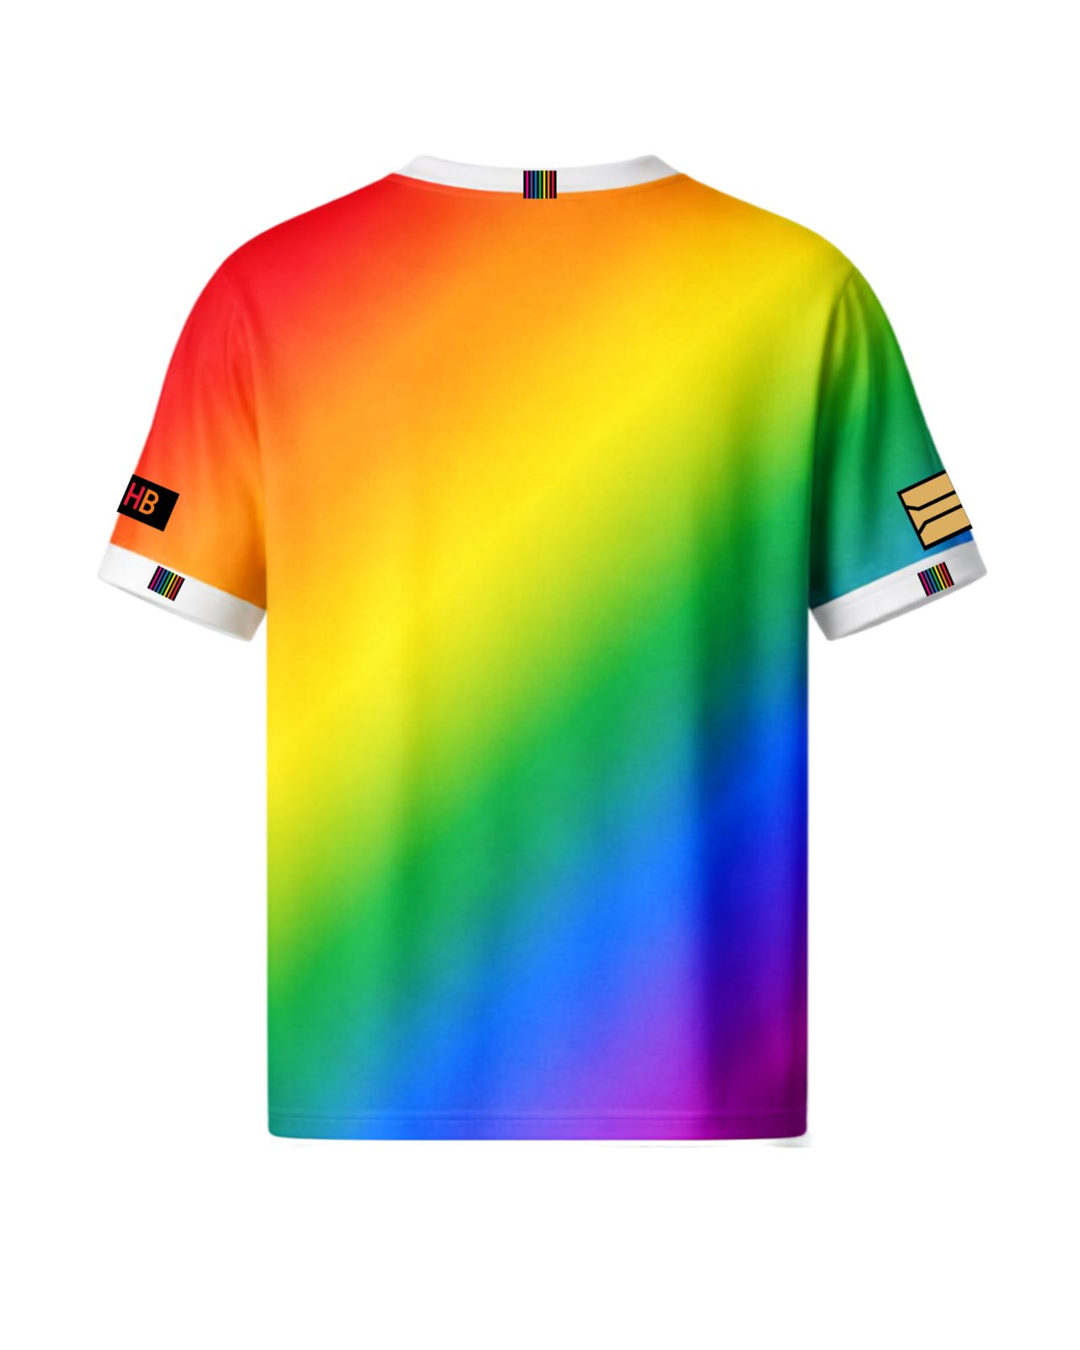
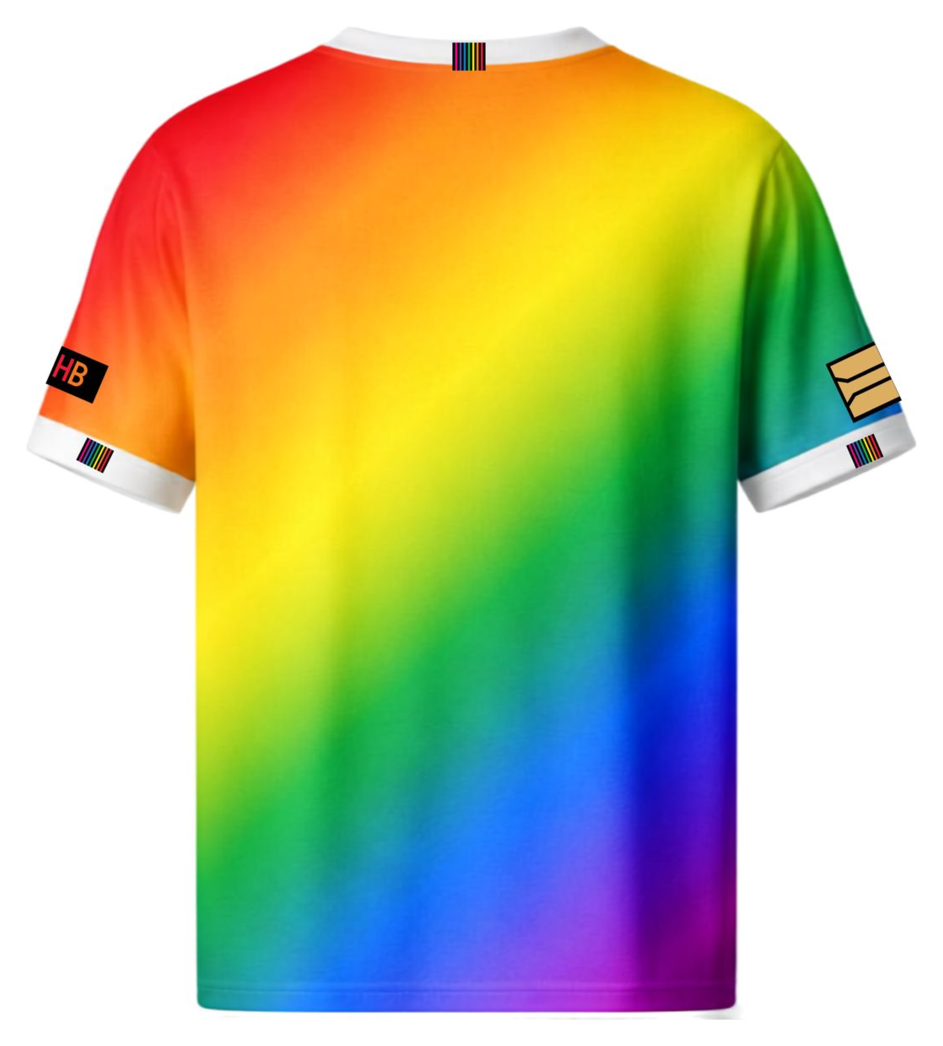
Carve the claimable area out of the shirt instead of stamping a rectangle on it
The grid was a rectangle of straight columns with the corners argued about
afterwards, which is what made it look like a first attempt. It now follows the
garment.

One rule does all of it: a cell is claimable only if every pixel within 9px of it
is clear fabric. That gives the organic boundary, the clearance from the seams and
the hem, and the same clearance from the heart, the crest and the wordmark, from a
single measurement rather than four sets of hand-drawn rectangles. Symmetry is then
enforced by mirroring, so a cell survives only if its mirror does. Without that,
small differences in the render's shading produce a shape a column wider on one
side, which was the old lopsidedness.

The shape is stored as a bitmap, one string per row, "0" claimable. You can read
it in the source: the back widens through the chest and tapers at both ends, the
front flows around the artwork. That replaces the excludeCells set added earlier,
which nothing else used.

Both kit renders were re-canvassed from 1080x1350 to 943x1046, so the garment
fills 94% of the width instead of 82%. At the same panel width the shirt renders
about 15% larger and the panel is a fifth shorter, which is less to scroll past on
a phone. Every box in zones.js is a percentage of the image, so all five bonus
zones had to be transformed: the garment pixels are unchanged, their offset in the
canvas is not. Checked afterwards that every sleeve and crest cell still lands on
[…]

diff --git a/lib/zones.js b/lib/zones.js
@@ -13,6 +13,11 @@
 // kit-customise.png / kit-back.png artwork (see the "arms" fix), not
 // guessed, so squares never render over the crest, wordmark, or the sleeve
 // tag logos, and never spill outside the printed fabric.
+// The kit renders were re-canvassed from 1080x1350 to 943x1046 so the shirt
+// fills the frame instead of floating in white, which makes it render about 15%
+// larger at the same panel width. Every box in this file is a percentage of the
+// image, so all of them had to be transformed: the garment pixels are unchanged,
+// their offset inside the canvas is not.
 export const ZONES = [
   // SQUARE "1:2", "9:2", "10:2", "11:2", "1:3", "2:3", "9:3", "10:3", "11:3", "1:4", "9:4", "10:4", "8:5", "9:5", "2:6", "3:6", "4:6", "5:6", "6:6", "7:6", "8:6", "9:6", "10:6", "1:7", "2:7", "3:7", "4:7", "5:7", "6:7", "7:7", "8:7", "9:7", "10:7", "2:8", "3:8", "4:8", "5:8", "6:8", "7:8", "8:8", "9:8", "10:8", "4:9", "5:9", "6:9", "7:9", "8:9", "9:9", "4:10", "5:10". Every "square" used to be a 51.8 x 29.7px rectangle, a 1.75:1
   // ratio, roughly 3.0 x 2.2cm on a medium shirt. A campaign called "500
@@ -39,20 +44,38 @@ export const ZONES = [
     // for them, so the board a visitor sees always contains 500 boxes and never
     // the bonus sleeve stock.
     counted: true,
-    cols: 12,
-    rows: 22,
-    box: { x: 29.8, y: 24, w: 40, h: 58.667 },
+    cols: 21,
+    rows: 23,
+    // The box is deliberately generous: it covers almost the whole render and the
+    // mask below carves the real shape out of it, rather than a rectangle being
+    // stamped on the shirt and the corners argued about afterwards.
+    box: { x: 6, y: 6, w: 88, h: 86.89 },
     exclude: [],
-    // Measured off the artwork rather than drawn by hand: a cell is out when
-    // more than 7% of its pixels are desaturated, which is what the collar, the
-    // white fill of the heart and the wordmark, and the near-black crest all
-    // are, while the fabric is a fully saturated rainbow everywhere. Luminance
-    // cannot be used for this: dark magenta at the bottom of the gradient is
-    // darker than the navy wordmark outline.
-    //
-    // The 50 cells below are the heart (rows 2-4), the crest (rows 2-5) and the
-    // wordmark (rows 6-10).
-    excludeCells: new Set(["1:2", "9:2", "10:2", "11:2", "1:3", "2:3", "9:3", "10:3", "11:3", "1:4", "9:4", "10:4", "8:5", "9:5", "2:6", "3:6", "4:6", "5:6", "6:6", "7:6", "8:6", "9:6", "10:6", "1:7", "2:7", "3:7", "4:7", "5:7", "6:7", "7:7", "8:7", "9:7", "10:7", "2:8", "3:8", "4:8", "5:8", "6:8", "7:8", "8:8", "9:8", "10:8", "4:9", "5:9", "6:9", "7:9", "8:9", "9:9", "4:10", "5:10"]),
+    mask: [
+      "111111111111111111111",
+      "111110111111111011111",
+      "111100000000000001111",
+      "111001110000011100111",
+      "110001111000111100011",
+      "110001111000111100011",
+      "111001111101111100111",
+      "111100111111111001111",
+      "111101111111111101111",
+      "111101111111111101111",
+      "111110111111111011111",
+      "111110011111110011111",
+      "111110000000000011111",
+      "111110000000000011111",
+      "111110000000000011111",
+      "111110000000000011111",
+      "111110000000000011111",
+      "111110000000000011111",
+      "111110000000000011111",
+      "111110000000000011111",
+      "111110000000000011111",
+      "111110000000000011111",
+      "111110000000000011111",
+    ],
   },
 {
     id: "front-sleeveL",
@@ -66,7 +89,7 @@ export const ZONES = [
     counted: true,
     cols: 1,
     rows: 2,
-    box: { x: 18.1, y: 32.7, w: 4.8, h: 4.4 },
+    box: { x: 12.14, y: 25.09, w: 5.5, h: 5.68 },
     exclude: [],
   },
   {
@@ -76,7 +99,7 @@ export const ZONES = [
     counted: true,
     cols: 1,
     rows: 2,
-    box: { x: 77.1, y: 32.2, w: 4.8, h: 4.4 },
+    box: { x: 79.71, y: 24.45, w: 5.5, h: 5.68 },
     exclude: [],
   },
   // Small bonus strip of plain fabric between the HBUFC crest and the
@@ -87,7 +110,7 @@ export const ZONES = [
     panel: "front",
     cols: 1,
     rows: 3,
-    box: { x: 71.76, y: 25.93, w: 3.94, h: 11.85 },
+    box: { x: 73.6, y: 16.35, w: 4.51, h: 15.29 },
     exclude: [],
   },
   // No exclusions on the back torso (blank artwork). Box extended the same
@@ -98,17 +121,37 @@ export const ZONES = [
     id: "back-body",
     panel: "back",
     counted: true,
-    cols: 12,
+    cols: 21,
     rows: 23,
-    // Same 36.00px cell as the front, so a square is identical on both panels.
-    // 23 rows at that cell size is what 61.333% of the artwork height comes to.
-    box: { x: 29.8, y: 20, w: 40, h: 61.333 },
-    // Nothing to exclude. The back is plain fabric, and the narrower box now
-    // clears the shoulder slope that the old corner cutouts existed to avoid,
-    // so the measurement finds no artwork at all here. Checked, not assumed:
-    // the same detection that traced the heart, crest and wordmark on the front
-    // returns zero blocked cells on this panel.
+    // Identical grid to the front, so a square is the same size on both panels
+    // and the two shapes are cut by the same rule.
+    box: { x: 6, y: 6, w: 88, h: 86.89 },
     exclude: [],
+    mask: [
+      "111111111111111111111",
+      "111110000000000011111",
+      "111000000000000000111",
+      "111000000000000000111",
+      "110000000000000000011",
+      "110000000000000000011",
+      "100000000000000000001",
+      "110000000000000000011",
+      "110000000000000000011",
+      "111000000000000000111",
+      "111100000000000001111",
+      "111100000000000001111",
+      "111100000000000001111",
+      "111100000000000001111",
+      "111100000000000001111",
+      "111100000000000001111",
+      "111100000000000001111",
+      "111100000000000001111",
+      "111100000000000001111",
+      "111100000000000001111",
+      "111100000000000001111",
+      "111110000000000011111",
+      "111110000000000011111",
+    ],
   },
   // The real back artwork (unlike the earlier placeholder) has a cuff tag on
   // each sleeve (an "HB" tag + a striped ribbon on the left, a tan tag +
@@ -123,7 +166,7 @@ export const ZONES = [
     counted: true,
     cols: 3,
     rows: 1,
-    box: { x: 15, y: 30, w: 9, h: 3 },
+    box: { x: 9.65, y: 26.48, w: 10.31, h: 3.87 },
     exclude: [],
   },
   {
@@ -132,7 +175,7 @@ export const ZONES = [
     counted: true,
     cols: 3,
     rows: 1,
-    box: { x: 76, y: 30, w: 9, h: 3 },
+    box: { x: 79.51, y: 26.48, w: 10.31, h: 3.87 },
     exclude: [],
   },
 ];
@@ -174,15 +217,21 @@ export function inExclude(zone, col, row, span) {
   ) {
     return true;
   }
-  // `excludeCells` is a measured set rather than hand-drawn rectangles. The
-  // torso artwork is not rectangular, and forcing it into rectangles is what
-  // previously cost squares to rounding, so the measurement is stored as it was
-  // taken. A block of four is out if any cell it covers is out.
-  const cells = zone.excludeCells;
-  if (cells) {
-    for (let i = 0; i < sp; i++) {
-      for (let j = 0; j < sp; j++) {
-        if (cells.has(`${col + i}:${row + j}`)) return true;
+  // `mask` is the measured shape of the claimable area, one string per row,
+  // "0" claimable and "1" not. Stored as a bitmap rather than as rectangles or a
+  // coordinate list because the shape is not rectangular and you can read it in
+  // the source: the back widens through the chest and tapers at both ends, the
+  // front flows around the heart, crest and wordmark.
+  //
+  // Anything outside the mask counts as excluded, so a block of four straddling
+  // the edge is refused rather than silently allowed.
+  const mask = zone.mask;
+  if (mask) {
+    for (let j = 0; j < sp; j++) {
+      const line = mask[row + j];
+      if (!line) return true;
+      for (let i = 0; i < sp; i++) {
+        if (line[col + i] !== "0") return true;
       }
     }
   }

diff --git a/components/DesignNote.jsx b/components/DesignNote.jsx
@@ -45,8 +45,12 @@ export default function DesignNote() {
         </div>
         <div style={{ fontSize: 13.5, lineHeight: 1.5, fontWeight: 600, color: "#b9bac2" }}>
           One square is roughly <strong style={{ color: "#e7e7ea" }}>3 cm across</strong> on a medium shirt,
-          about the size of a postage stamp. The position of your logo, message, drawing or autograph may
-          shift slightly once printed. Everything else is exactly as shown.
+          about the size of a postage stamp. The kit is dye sublimated, which means your artwork is printed
+          as <strong style={{ color: "#e7e7ea" }}>white only</strong>: there is no white ink, so the white
+          is the fabric itself showing through and the colour is printed around it. Bold, simple shapes
+          come out best. Very thin lines and small lettering close up at this size, and colour, shading
+          and gradients cannot be reproduced. The position may shift slightly once printed. Everything
+          else is exactly as shown.
         </div>
       </div>
     </div>
